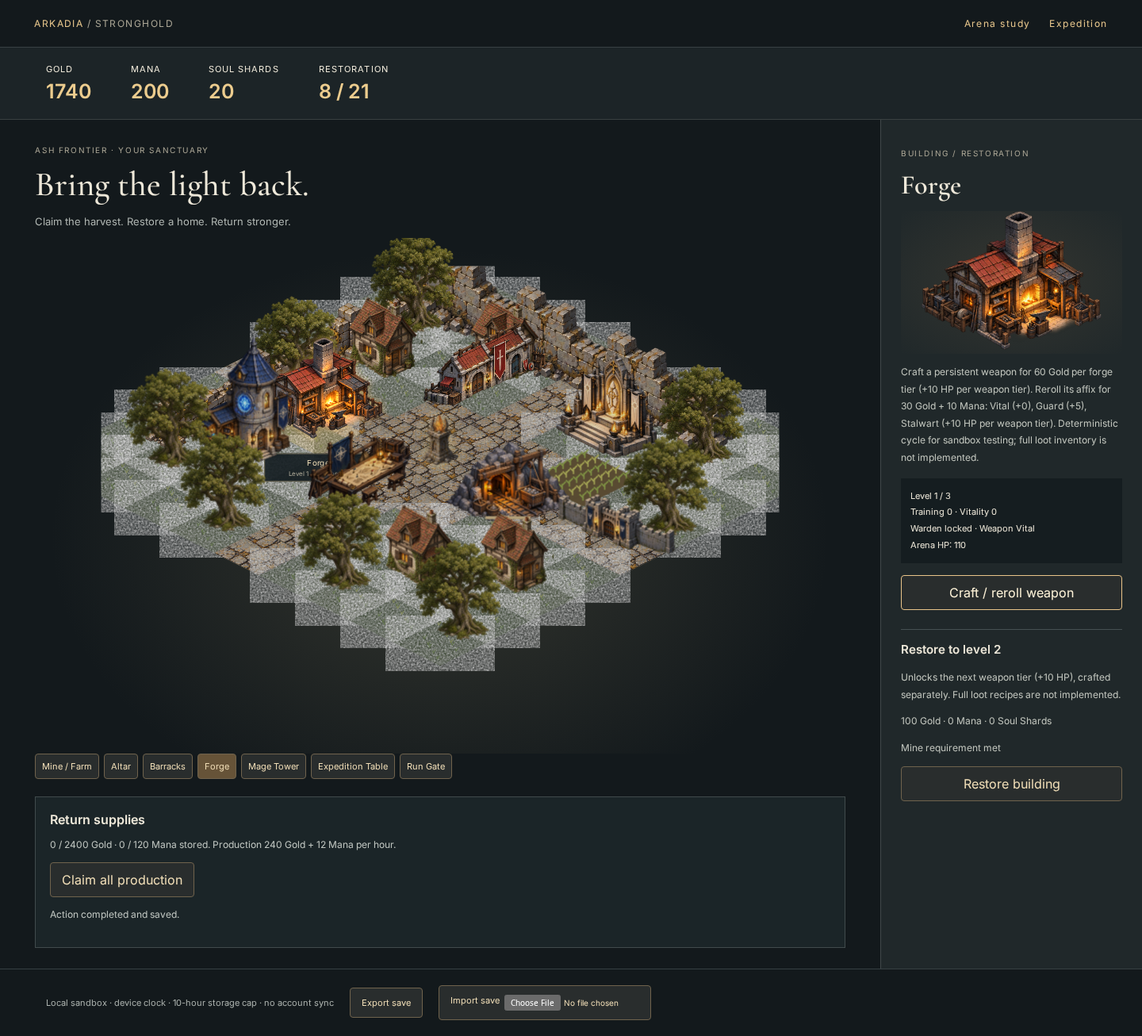
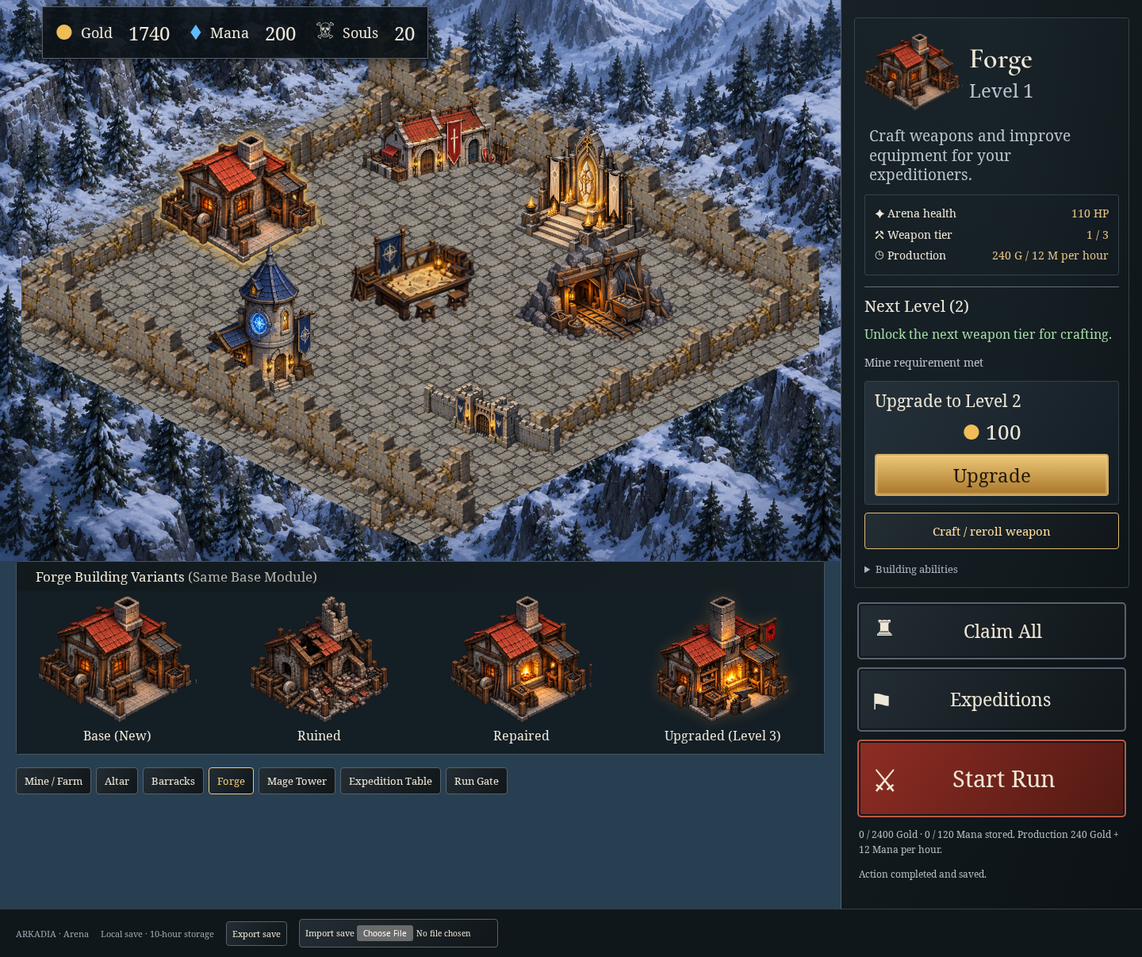
Restyle Stronghold as a snowy fortress game screen

diff --git a/src/stronghold/style.css b/src/stronghold/style.css
@@ -1,21 +1,5 @@
-@import url('https://fonts.googleapis.com/css2?family=Cormorant+Garamond:wght@500;600&family=Inter:wght@400;500;600&display=swap');
-:root{color-scheme:dark;font-family:Inter,system-ui,sans-serif;color:#eee8d9;background:#13191c}*{box-sizing:border-box}body{margin:0}button,a,input{font:inherit}a{color:#e9c88d;text-decoration:none}button,.import{border:1px solid #70634d;background:#292d2d;color:#f2dfb8;padding:11px 14px;cursor:pointer;border-radius:4px}button:hover,a:hover{color:#fff4d9;border-color:#eac58a}button:disabled{opacity:.45;cursor:not-allowed}header{padding:22px 3%;display:flex;justify-content:space-between;border-bottom:1px solid #394044;letter-spacing:.12em;font-size:12px}header span,small{color:#aca796}nav{display:flex;gap:24px}.resources{display:flex;gap:50px;padding:20px 4%;background:#1c2427;border-bottom:1px solid #3a4141;font-size:11px;letter-spacing:.1em}.resources b{display:block;font-size:25px;color:#eccc8e;letter-spacing:0;margin-top:6px}.layout{display:grid;grid-template-columns:minmax(0,1fr) 330px;max-width:1600px;margin:auto}main{padding:26px 4%}.intro h1{font:500 43px 'Cormorant Garamond',Georgia,serif;margin:9px 0}.intro p{color:#b0b6b2;font-size:13px}.intro small,aside>small{font-size:10px;letter-spacing:.16em}.scene{height:460px;position:relative;isolation:isolate;overflow:hidden;background:radial-gradient(ellipse at 50% 60%,#55503b55,transparent 68%)}.courtyard{position:absolute;width:62%;height:65%;top:17%;left:20%;background:url('/assets/limestone.png') center/110px 55px;transform:rotate(-30deg) skew(30deg) scaleY(.65);border:16px ridge #626360;box-shadow:20px 30px 0 #161d20,0 0 90px #a1763b22;opacity:.65}.center-relic{position:absolute;width:90px;height:130px;object-fit:contain;left:45%;top:37%;filter:drop-shadow(0 0 15px #d5ae6170)}.building{position:absolute;transform:translate(-50%,-75%);width:145px;height:125px;border:0;background:transparent;padding:0;z-index:2}.building img{width:120px;height:110px;object-fit:contain;position:relative;filter:brightness(.7) saturate(.6);pointer-events:none}.building .base{position:absolute;background:#5b5b4b;border:2px solid #8d8064;width:110px;height:52px;transform:rotate(-27deg) skew(32deg);left:15px;bottom:5px;box-shadow:6px 8px 0 #252c2b}.building.selected .base{border-color:#ffd995;box-shadow:0 0 20px #e1ab5366}.building-label{position:absolute;top:110px;left:0;width:100%;background:#182125ee;border:1px solid #555b53;padding:6px;font-size:11px;white-space:nowrap}.building-label small{display:block;font-size:9px;margin-top:3px}.building.tier-2 img,.portrait.tier-2 img{filter:brightness(.95)}.building.tier-3 img,.portrait.tier-3 img{filter:brightness(1.1) drop-shadow(0 0 6px #e9c47266)}.repair{position:absolute;top:24px;left:32px;width:75px;height:12px;background:#aa9778;transform:rotate(-12deg);display:none}.tier-2 .repair,.tier-3 .repair{display:block}.tier-3 .repair{border-top:4px solid #edc87c}.furnace{position:absolute;left:58px;top:70px;width:23px;height:25px;background:#e69c4c;box-shadow:0 0 20px #ff8a35;animation:ember 4s ease-in-out infinite}.mage img{filter:drop-shadow(0 0 10px #8bbbe7)}.quick{display:flex;gap:6px;flex-wrap:wrap}.quick button{font-size:11px;padding:8px}.quick button[aria-pressed=true]{background:#665338}.return{margin-top:22px;padding:18px;border:1px solid #414b4c;background:#1b2528}.return p{font-size:12px;color:#c1c7c2;line-height:1.7}aside{background:#20282a;border-left:1px solid #41484a;padding:30px 25px}h2{font:600 34px 'Cormorant Garamond',Georgia,serif;margin:12px 0}.portrait{background:radial-gradient(ellipse,#76614340,transparent);height:130px;text-align:center}.portrait img{height:130px;width:170px;object-fit:contain}aside p{font-size:12px;line-height:1.8;color:#c3c7bf}aside button{width:100%}.facts{font-size:11px;line-height:1.9;background:#151d20;padding:12px;margin:15px 0}h3{font-size:15px}hr{border:0;border-top:1px solid #465052;margin-top:24px}footer{padding:20px 4%;font-size:11px;color:#aeb4b0;border-top:1px solid #364043;display:flex;gap:20px;align-items:center}footer button,.import{font-size:11px}input[type=file]{max-width:170px;font-size:10px}@keyframes ember{50%{opacity:.7}}@media(prefers-reduced-motion:reduce){*{animation:none!important}}@media(max-width:900px){.layout{grid-template-columns:1fr}aside{border-top:1px solid #41484a}.resources{gap:20px;flex-wrap:wrap}.scene{height:400px}.building{scale:.83}.intro h1{font-size:34px}footer{flex-wrap:wrap}nav{gap:10px}}
-/* Scene geometry uses world pixels; only this parent is uniformly fitted. */
-.scene{height:auto;aspect-ratio:960/650;min-height:280px;max-height:650px;overflow:hidden}.scene-world{position:absolute;width:960px;height:650px;left:50%;top:50%;transform-origin:center}.ground{position:absolute;inset:0;width:960px;height:650px;pointer-events:none}.building{width:150px;height:150px;transform:translate(-50%,-100%);scale:1!important;overflow:visible;isolation:isolate}.building img{position:absolute;width:var(--sprite-width);height:auto;max-height:none;left:50%;top:100%;transform:translate(-50%,calc(-1 * var(--pivot)));object-fit:initial;z-index:1}.building .base{width:128px;height:64px;left:11px;bottom:-32px;transform:none;clip-path:polygon(50% 0,100% 50%,50% 100%,0 50%);border:0;background:#aaa07833;box-shadow:none}.building.selected .base{background:#f7ca7188;box-shadow:none}.building-label{top:calc(100% + 29px);left:-5px;width:160px;font-size:12px;padding:5px;z-index:3}.building-label small{font-size:10px}.building .repair{z-index:2;top:auto;bottom:30px;left:45px;width:60px;height:6px}.building .furnace{z-index:2;top:auto;bottom:15px;left:66px;width:18px;height:23px}.mage img{filter:brightness(.8) drop-shadow(0 0 10px #7aafe7)}.building:focus-visible{outline:2px solid #f7ca71;outline-offset:6px}.building:hover{background:transparent}.portrait img{max-width:100%}@media(max-width:900px){.scene{height:auto;min-height:280px;aspect-ratio:960/650}}@media(max-width:480px){main{padding-inline:12px}.resources{gap:18px;padding-inline:16px}.resources b{font-size:21px}header{letter-spacing:.03em;padding-inline:12px}header span{display:none}.scene{min-height:290px}aside{padding:24px 18px}.quick button{min-height:40px}footer{gap:12px}}
-.layout,main,aside{min-width:0}footer .import{max-width:100%;display:flex;gap:6px;flex-wrap:wrap}footer input{min-width:0;max-width:100%}.building-label{pointer-events:none}
-.scene{width:100%;max-width:100%}
-/* Dedicated building kit: the sprite is the silhouette; UI remains separate. */
-.wall-piece{position:absolute;inset:0;width:960px;height:650px;pointer-events:none}.sanctuary-relic{position:absolute;width:55px;height:auto;transform:translate(-50%,-94%);pointer-events:none;filter:drop-shadow(0 0 12px #dbbd6766)}.building img{filter:brightness(.88) saturate(.85);transition:filter .2s}.building.selected img{filter:brightness(1.08) drop-shadow(0 0 5px #f1b95b88)}.building .base{background:transparent}.building.selected .base{background:#f7ca7140}.building-label{font-size:11px;width:152px;left:-1px;background:#151e22ed;border-color:#726a54}.building-label small{font-size:9px}.building .repair{display:none}.building.tier-2::after,.building.tier-3::after{content:'';position:absolute;bottom:0;left:43px;width:64px;height:4px;background:#b4a078;z-index:2}.building.tier-3::after{background:#efc776;box-shadow:0 0 12px #e8ab4d}.building .furnace{left:70px;bottom:45px;width:6px;height:7px;opacity:.45;box-shadow:0 0 20px 10px #ffab4266;background:transparent;pointer-events:none}.portrait{height:180px}.portrait img{height:175px;width:230px}.scene{background:radial-gradient(ellipse at 50% 58%,#77705455,transparent 68%)}
-.scene{aspect-ratio:1060/730}.building-label{display:none}.building.selected .building-label{display:block}.building.selected img{filter:brightness(1.08) drop-shadow(0 0 5px #f1b95b88)}
-
-/* Open village: props use world ground pivots, never a second camera transform. */
-.village-prop{position:absolute;width:150px;height:160px;transform:translate(-50%,-87.5%);pointer-events:none}
-.crop{position:absolute;inset:0;width:960px;height:650px;pointer-events:none}
-/* Correct shallow source-art ground axes around each sprite's contact pivot.
-   Shear Y keeps vertical walls vertical, unlike rotating the entire building. */
-.building.barracks img{transform:translate(-50%,calc(-1 * var(--pivot))) skewY(-14deg);transform-origin:50% 95%}
-.building.expedition img{transform:translate(-50%,calc(-1 * var(--pivot))) skewY(-11deg);transform-origin:50% 95%}
-.building.altar img{transform:translate(-50%,calc(-1 * var(--pivot))) skewY(7deg);transform-origin:50% 95%}
-
-/* Wider irregular clearing with a single camera for all terrain and props. */
-.scene{aspect-ratio:1280/900;max-height:800px}.scene-world,.ground,.wall-piece,.crop{width:1280px;height:900px}.meadow-clump{position:absolute;height:auto;transform:translate(-50%,-90%);pointer-events:none}
+@import url('https://fonts.googleapis.com/css2?family=Cormorant+Garamond:wght@500;600&display=swap');
+:root{color-scheme:dark;font-family:Georgia,serif;color:#eee7d7;background:#10171b;font-synthesis:none}*{box-sizing:border-box}body{margin:0}button,a,input{font:inherit}a{color:inherit;text-decoration:none}button,.import{cursor:pointer;border:1px solid #596069;border-radius:4px;background:linear-gradient(120deg,#232d34,#101619);color:#efe6d6;padding:12px 16px}button:hover,a:hover{border-color:#dfba70;color:#ffe0a0}button:disabled{opacity:.5;cursor:not-allowed}button:focus-visible,a:focus-visible,summary:focus-visible{outline:2px solid #ffcf73;outline-offset:3px}.layout{display:grid;grid-template-columns:minmax(0,1fr) 380px;max-width:1920px;margin:auto}main{position:relative;min-width:0;background:radial-gradient(ellipse at 50% 40%,#718082,#344854 65%,#182b38);overflow:hidden}.resources{position:absolute;z-index:1000;left:5%;top:8px;display:flex;gap:25px;background:#0c1217ed;border:1px solid #58616a;padding:10px 16px;box-shadow:0 4px 14px #0008;font-size:18px}.resources div{display:flex;align-items:center;gap:10px;white-space:nowrap}.resources b{font-weight:400;font-size:24px;margin-left:10px}.resource-icon{font-size:26px;color:#d5d0c5}.gold{color:#efbd57}.mana{color:#60baff}.scene{position:relative;width:100%;height:auto;aspect-ratio:1.5;min-height:500px;overflow:hidden;isolation:isolate;background:radial-gradient(ellipse at 50% 60%,transparent 45%,#a8c3d640 95%)}.scene-world{position:absolute;width:1280px;height:900px;left:50%;top:50%;transform-origin:center}.ground,.wall-piece,.crop{position:absolute;inset:0;width:1280px;height:900px;pointer-events:none}.ground{filter:saturate(.55) brightness(1.25)}.building{position:absolute;width:150px;height:150px;transform:translate(-50%,-100%);background:transparent;border:0;padding:0;overflow:visible;isolation:isolate}.building img{position:absolute;width:var(--sprite-width);height:auto;left:50%;top:100%;transform:translate(-50%,calc(-1 * var(--pivot)));pointer-events:none;filter:brightness(.95);transition:filter .2s}.building:hover{background:transparent}.building:hover img,.building.selected img{filter:brightness(1.12) drop-shadow(0 0 2px #ffc65d) drop-shadow(0 0 5px #ffc65d)}.building .base{position:absolute;width:190px;height:95px;bottom:-25px;left:-20px;clip-path:polygon(50% 0,100% 50%,50% 100%,0 50%)}.building.selected .base{background:#efb94e33}.building-label{display:none;position:absolute;top:100%;left:-20px;width:190px;background:#111a20e8;border:1px solid #bf9d5a;padding:7px;pointer-events:none;font-size:15px}.building:focus-visible .building-label,.building:hover .building-label{display:block}.building-label small{display:block;font-size:12px;color:#bbb}.repair,.furnace{display:none}.sidebar{padding:22px 16px;background:linear-gradient(110deg,#172126,#0c1215);border-left:1px solid #53616b;min-width:0}aside{border:1px solid #35424b;border-radius:4px;padding:16px;background:radial-gradient(ellipse at top,#22303a55,transparent)}.detail-heading{display:flex;align-items:center;gap:12px}.portrait{width:124px;height:112px;flex-shrink:0}.portrait img{width:100%;height:100%;object-fit:contain}h2{font:600 36px 'Cormorant Garamond',Georgia,serif;margin:0 0 2px}.detail-heading p{font-size:24px;margin:0;color:#bbc2cc}.description{font-size:20px;line-height:1.3;color:#bbc3cb;margin:14px 10px}.facts{padding:14px 12px;border:1px solid #35424b;border-radius:3px;font-size:15px;line-height:1.9}.facts div{display:flex;justify-content:space-between;gap:8px}.facts b{font-weight:400;color:#e4c383}.facts div:last-child{flex-wrap:wrap}hr{border:0;border-top:1px solid #62707a;margin:20px 0 12px}h3{font-size:20px;font-weight:400;margin:10px 0}.effect{font-size:16px;line-height:1.5;color:#a7dca7}.requirement{font-size:14px;color:#bcc5ca}.upgrade-card{border:1px solid #35424b;background:linear-gradient(120deg,#25313a,#141d24);border-radius:3px;padding:10px 12px;margin:18px 0 12px}.upgrade-card h3{margin:0;font-size:21px}.price{text-align:center;font-size:26px;margin:7px 0}.upgrade-card button{width:100%;background:linear-gradient(#ecc776,#a9772c);border:2px solid #cfaa65;color:#211808;font-size:24px;padding:8px;box-shadow:inset 0 0 0 2px #f3d58b55}#action{width:100%;font-size:15px}details{font-size:13px;color:#aab5bd;margin-top:15px;line-height:1.6}summary{cursor:pointer}.destinations{display:grid;gap:12px;margin:26px 4px 0}.destinations button,.destinations a{display:flex;align-items:center;border:2px solid #59636e;box-shadow:inset 0 0 0 2px #11181d;border-radius:5px;background:linear-gradient(120deg,#232d34,#101619);padding:14px 20px;font-size:28px}.destinations span{flex:1;text-align:center;font-size:23px}#start-run{background:linear-gradient(125deg,#8f2d24,#501913);border-color:#bd5743;font-size:36px}#start-run span{font-size:29px}.return{font-size:12px;color:#b2bdc3;line-height:1.6;margin:18px 6px}.variants{margin:0 20px 16px;border:1px solid #485661;background:linear-gradient(120deg,#141c22,#26313a);border-radius:4px}.variants h3{margin:0;padding:7px 24px;background:#10181cb0;font-size:17px}.variants h3 span{color:#b6b4ab}.variant-grid{display:grid;grid-template-columns:repeat(4,1fr)}figure{margin:0;text-align:center;padding:6px 2px 12px;min-width:0}.variant img{width:100%;height:160px;object-fit:contain}.variant-0 img{filter:saturate(.5)}.variant-1 img{filter:grayscale(.85) brightness(.6)}.variant-3 img{filter:brightness(1.17) drop-shadow(0 0 10px #df9c3355)}figcaption{font-size:16px}.quick{display:flex;gap:6px;padding:0 20px 15px;flex-wrap:wrap}.quick button{font-size:13px;padding:7px 10px}.quick button[aria-pressed=true]{border-color:#f1c778;color:#f1c778}footer{max-width:1920px;margin:auto;display:flex;gap:15px;align-items:center;flex-wrap:wrap;padding:12px 20px;border-top:1px solid #34424b;font-size:11px;color:#9ba9b3}footer button,.import{font-size:11px;padding:7px}input[type=file]{max-width:170px;font-size:10px}@media(min-width:1500px){.scene{min-height:770px}}@media(max-width:1000px){.layout{grid-template-columns:minmax(0,1fr) 310px}.sidebar{padding:12px 10px}.portrait{width:90px;height:90px}h2{font-size:30px}.description{font-size:17px}.resources{gap:12px;font-size:14px;padding:8px}.resources b{font-size:20px;margin-left:0}.variant img{height:110px}figcaption{font-size:13px}.scene{min-height:450px}}@media(max-width:700px){.layout{grid-template-columns:1fr}.scene{min-height:0;aspect-ratio:1.15}.resources{left:8px;right:8px;top:8px;justify-content:space-between;gap:6px}.resources div{gap:5px}.resources b{font-size:19px}.resource-icon{font-size:20px}.variants{margin:0 8px 12px}.variants h3{font-size:14px;padding:6px 10px}.variant img{height:90px}figcaption{font-size:11px}.sidebar{border-left:0;border-top:1px solid #53616b;padding:16px}.detail-heading{gap:20px}.portrait{width:110px;height:100px}.description{font-size:20px}.quick{padding:0 8px 12px;gap:5px}.quick button{min-height:40px;font-size:12px}.destinations{margin-top:16px}.import{display:flex;flex-wrap:wrap;max-width:100%}footer input{max-width:100%;min-width:0}}@media(prefers-reduced-motion:reduce){*{transition:none!important}}
+/* Landscape art sits below independently selected and depth-sorted buildings. */
+main{background:#273f51}.scene{background:url('/fortress-ui/snowy-landscape.webp') center/cover no-repeat}.detail-heading{gap:8px}.description{margin:12px 6px;font-size:19px}.facts{padding:10px 12px;font-size:14px}.upgrade-card{margin:12px 0 10px}aside{padding:12px}hr{margin:14px 0 10px}.destinations{margin-top:18px;gap:10px}.destinations button,.destinations a{padding:10px 18px}.return{margin:12px 6px}.effect{margin:10px 0}.variant-grid{background:#141e25}.scene .ground{filter:saturate(.45) brightness(1.05)}
+.variant img{filter:none}.variant-3 img{filter:drop-shadow(0 0 8px #df9c3333)}

diff --git a/src/stronghold/main.ts b/src/stronghold/main.ts
@@ -1,5 +1,5 @@
 import './style.css';
-import {ground,placement,slots,WORLD,enclosure,village} from './scene';
+import {ground,placement,slots,WORLD,enclosure} from './scene';
 import {KEY,BALANCE,buildings,load,rates,cost,upgrade,action,claim,type Building} from './economy';
 import {transact,restore} from './store';
 const info:Record<Building,{name:string;description:string;action:string;effect:string}>={
@@ -12,23 +12,26 @@ const info:Record<Building,{name:string;description:string;action:string;effect:
  gate:{name:'Run Gate',description:'Enter the existing arena. Defeat five enemies, then return to receive 100 Gold, 20 Mana and 3 Soul Shards once per run. Stronghold HP bonuses apply on entry.',action:'Start arena run ↗',effect:'Repairs the gate. Run difficulty remains unchanged.'}
 };
 const root=document.querySelector('#stronghold')!;
-root.innerHTML=`<header><a href="/stronghold.html">ARKADIA <span>/ STRONGHOLD</span></a><nav><a href="/index.html">Arena study</a><a href="/expedition.html">Expedition</a></nav></header><section class="resources" aria-label="Resources"></section><div class="layout"><main><div class="intro"><small>ASH FRONTIER · YOUR SANCTUARY</small><h1>Bring the light back.</h1><p>Claim the harvest. Restore a home. Return stronger.</p></div><div class="scene" aria-label="Stronghold village with gardens and cottages"><div class="scene-world">${ground()}${enclosure()}${village()}<div id="slots"></div></div></div><div class="quick" aria-label="Building selection"></div><div class="return"><b>Return supplies</b><p id="offline"></p><button id="claim">Claim all production</button><p id="status" role="status">Saved locally in this browser. Production continues while away.</p></div></main><aside aria-label="Building details"></aside></div><footer>Local sandbox · device clock · 10-hour storage cap · no account sync <button id="export">Export save</button><label class="import">Import save <input type="file" id="import" accept="application/json"></label></footer>`;
-let selected:Building='mine',busy=false;
+root.innerHTML=`<div class="layout"><main><section class="resources" aria-label="Resources"></section><div class="scene" aria-label="Stronghold fortress courtyard"><div class="scene-world">${ground()}${enclosure()}<div id="slots"></div></div></div><div class="variants"><h3>Forge Building Variants <span>(Same Base Module)</span></h3><div class="variant-grid">${['Base (New)','Ruined','Repaired','Upgraded (Level 3)'].map((name,i)=>`<figure class="variant variant-${i}"><img src="/fortress-ui/forge-${[1,0,2,3][i]}.webp" alt="Forge ${name}"><figcaption>${name}</figcaption></figure>`).join('')}</div></div><div class="quick" aria-label="Building selection"></div></main><div class="sidebar"><aside aria-label="Building details"></aside><div class="destinations"><button id="claim">♜ <span>Claim All</span></button><a href="/expedition.html">⚑ <span>Expeditions</span></a><button id="start-run">⚔ <span>Start Run</span></button></div><div class="return"><p id="offline"></p><p id="status" role="status">Saved locally in this browser.</p></div></div></div><footer><a href="/index.html">ARKADIA · Arena</a><span>Local save · 10-hour storage</span><button id="export">Export save</button><label class="import">Import save <input type="file" id="import" accept="application/json"></label></footer>`;
+let selected:Building='forge',busy=false;
 const el=(s:string)=>root.querySelector(s) as HTMLElement;
 const fit=()=>{const scene=el('.scene');const scale=Math.min(scene.clientWidth/WORLD.width,scene.clientHeight/WORLD.height);el('.scene-world').style.transform=`translate(-50%,-50%) scale(${scale})`;};
 new ResizeObserver(fit).observe(el('.scene'));fit();
 function read(){return load(localStorage.getItem(KEY));}
-function render(){try{const s=read(),r=rates(s);el('.resources').innerHTML=`<div>GOLD <b>${Math.floor(s.gold)}</b></div><div>MANA <b>${Math.floor(s.mana)}</b></div><div>SOUL SHARDS <b>${s.souls}</b></div><div>RESTORATION <b>${Object.values(s.levels).reduce((a,b)=>a+b,0)} / 21</b></div>`;
- el('#slots').innerHTML=buildings.map(b=>`<button class="building ${b} tier-${s.levels[b]} ${selected===b?'selected':''}" data-building="${b}" style="${placement(b)}" aria-label="Select ${info[b].name}" aria-pressed="${selected===b}"><span class="base"></span><img src="/assets/${slots[b].asset}.png" alt=""><i class="repair"></i>${b==='forge'?'<i class="furnace"></i>':''}<span class="building-label">${info[b].name}${b==='mine'&&s.storedGold>=1?' ▣':''}<small>Level ${s.levels[b]} · ${['Weathered','Repaired','Restored'][s.levels[b]-1]}</small></span></button>`).join('');
+function render(){try{const s=read(),r=rates(s);el('.resources').innerHTML=`<div><span class="resource-icon gold">●</span> Gold <b>${Math.floor(s.gold)}</b></div><div><span class="resource-icon mana">♦</span> Mana <b>${Math.floor(s.mana)}</b></div><div><span class="resource-icon">☠</span> Souls <b>${s.souls}</b></div>`;
+ el('#slots').innerHTML=buildings.map(b=>`<button class="building ${b} tier-${s.levels[b]} ${selected===b?'selected':''}" data-building="${b}" style="${placement(b)}" aria-label="Select ${info[b].name}" aria-pressed="${selected===b}"><span class="base"></span><img src="${b==='forge'?`/fortress-ui/forge-${s.levels[b]}.webp`:`/assets/${slots[b].asset}.png`}" alt=""><i class="repair"></i>${b==='forge'?'<i class="furnace"></i>':''}<span class="building-label">${info[b].name}${b==='mine'&&s.storedGold>=1?' ▣':''}<small>Level ${s.levels[b]} · ${['Ruined','Repaired','Restored'][s.levels[b]-1]}</small></span></button>`).join('');
  el('.quick').innerHTML=buildings.map(b=>`<button data-building="${b}" aria-pressed="${selected===b}">${info[b].name}</button>`).join('');
  const b=selected,d=info[b],c=cost(s,b),max=s.levels[b]>=BALANCE.maxLevel,req=b!=='mine'&&s.levels.mine<s.levels[b]+1;
- el('aside').innerHTML=`<small>BUILDING / ${s.levels[b]===3?'RESTORED':'RESTORATION'}</small><h2>${d.name}</h2><div class="portrait tier-${s.levels[b]}"><img src="/assets/${slots[b].asset}.png" alt="${d.name}"></div><p>${d.description}</p><div class="facts">Level ${s.levels[b]} / 3<br>Training ${s.training} · Vitality ${s.skill}<br>Warden ${s.hero?'unlocked':'locked'} · Weapon ${s.weapon?['Vital','Guard','Stalwart'][s.affix]:'uncrafted'}<br>Arena HP: ${100+(s.hero?20:0)+s.training*10+s.skill*5+(s.weapon?s.weapon*10+s.affix*5:0)}</div><button id="action" ${busy?'disabled':''}>${d.action}</button><hr><h3>${max?'Fully restored':`Restore to level ${s.levels[b]+1}`}</h3><p>${d.effect}</p><p>${max?'Maximum level':`${c.gold} Gold · ${c.mana} Mana · ${c.souls} Soul Shards`}</p><p>${req?`Requires Mine level ${s.levels[b]+1}`:'Mine requirement met'}</p><button id="upgrade" ${max||req||s.gold<c.gold||s.mana<c.mana||s.souls<c.souls||busy?'disabled':''}>${max?'Restored':'Restore building'}</button>`;
+ const hp=100+(s.hero?20:0)+s.training*10+s.skill*5+(s.weapon?s.weapon*10+s.affix*5:0);
+ const descriptions:Record<Building,string>={mine:'Gather gold and harvest supplies for your sanctuary.',altar:'Restore the sanctuary and unlock the Warden blessing.',barracks:'Train your expeditioners for the battles ahead.',forge:'Craft weapons and improve equipment for your expeditioners.',mage:'Gather Mana and study the art of Vitality.',expedition:'Explore the world and send your expeditioners in search of supplies.',gate:'Leave the safety of the fortress. Return with the spoils of battle.'};
+ el('aside').innerHTML=`<div class="detail-heading"><div class="portrait tier-${s.levels[b]}"><img src="${b==='forge'?`/fortress-ui/forge-${s.levels[b]}.webp`:`/assets/${slots[b].asset}.png`}" alt="${d.name}"></div><div><h2>${d.name}</h2><p>Level ${s.levels[b]}</p></div></div><p class="description">${descriptions[b]}</p><div class="facts"><div><span>✦ Arena health</span><b>${hp} HP</b></div><div><span>⚒ Weapon tier</span><b>${s.weapon} / 3</b></div><div><span>◷ Production</span><b>${r.gold} G / ${r.mana} M per hour</b></div></div><hr><h3>${max?'Fully restored':`Next Level (${s.levels[b]+1})`}</h3><p class="effect">${{mine:"Gold output increases with each level.",forge:"Unlock the next weapon tier for crafting.",altar:"Restore your sanctuary and its blessing.",barracks:"Unlock the next training rank.",mage:"Increase Mana production and unlock a skill rank.",expedition:"Restore your expedition table.",gate:"Restore the fortress entrance."}[b]}</p><p class="requirement">${req?`Requires Mine level ${s.levels[b]+1}`:max?'Maximum level reached':'Mine requirement met'}</p><div class="upgrade-card"><h3>${max?'Sanctuary restored':`Upgrade to Level ${s.levels[b]+1}`}</h3><p class="price">${max?'Level 3 / 3':`<span class="gold">●</span> ${c.gold}${c.mana?` · ${c.mana} Mana`:''}${c.souls?` · ${c.souls} Souls`:''}`}</p><button id="upgrade" ${max||req||s.gold<c.gold||s.mana<c.mana||s.souls<c.souls||busy?'disabled':''}>${max?'Restored':'Upgrade'}</button></div><button id="action" ${busy?'disabled':''}>${d.action}</button><details><summary>Building abilities</summary><p>${d.description}</p><p>Training ${s.training} · Vitality ${s.skill} · Warden ${s.hero?'unlocked':'locked'}</p></details>`;
  el('#offline').textContent=`${Math.floor(s.storedGold)} / ${r.gold*10} Gold · ${Math.floor(s.storedMana)} / ${r.mana*10} Mana stored. Production ${r.gold} Gold + ${r.mana} Mana per hour. ${s.storedGold>=r.gold*10?'Gold storage full.':''}`;
  root.querySelectorAll<HTMLElement>('[data-building]').forEach(e=>e.onclick=()=>{selected=e.dataset.building as Building;render();});
  el('#upgrade').onclick=()=>run(()=>transact(s=>upgrade(s,selected)),'Building restored.');
  el('#action').onclick=()=>{if(b==='expedition'){location.href='/expedition.html';return;}if(b==='gate'){run(async()=>{await transact(s=>{s.runId=crypto.randomUUID();});location.href='/index.html?stronghold=1';},'Run prepared.');return;}run(()=>transact(s=>action(s,b)),'Action completed and saved.');};
  }catch(e){el('#status').textContent=String(e);}}
 async function run(fn:()=>Promise<unknown>,message:string){if(busy)return;busy=true;try{await fn();el('#status').textContent=message;}catch(e){el('#status').textContent=String(e);}finally{busy=false;render();}}
+el('#start-run').onclick=()=>run(async()=>{await transact(s=>{s.runId=crypto.randomUUID();});location.href='/index.html?stronghold=1';},'Run prepared.');
 el('#claim').onclick=()=>run(()=>transact(s=>{claim(s);}),'Production claimed and saved.');
 el('#export').onclick=()=>{try{const s=read(),url=URL.createObjectURL(new Blob([JSON.stringify(s)],{type:'application/json'}));const a=document.createElement('a');a.href=url;a.download='arkadia-stronghold.json';a.click();URL.revokeObjectURL(url);}catch(e){el('#status').textContent=String(e);}};
 el('#import').onchange=async e=>{const file=(e.target as HTMLInputElement).files?.[0];if(file)run(async()=>{const raw=await file.text();await restore(raw);},'Backup imported. Import replaces this browser progress.');};

diff --git a/src/stronghold/scene.ts b/src/stronghold/scene.ts
@@ -3,25 +3,25 @@ import {wallSources} from '../wall-sources';
 // One world unit system: tile top diamonds are 128 × 64, never CSS-skewed.
 export const TILE = {width:128,height:64};
 export const WORLD = {width:1280,height:900};
-export const project=(u:number,v:number)=>({x:640+(u-v)*64,y:220+(u+v)*32});
+export const project=(u:number,v:number)=>({x:640+(u-v)*64,y:300+(u+v)*32});
 // Ground contact pivots measured against the extracted PNGs, independent of image box height.
 export const slots:Record<Building,{u:number;v:number;width:number;pivot:number;asset:string}>= {
- mine:{u:4.5,v:2.8,width:175,pivot:.95,asset:'stronghold/mine'},
- altar:{u:3.6,v:-.1,width:145,pivot:.95,asset:'stronghold/altar'},
- barracks:{u:.7,v:-.4,width:175,pivot:.95,asset:'stronghold/barracks'},
- forge:{u:-.5,v:2.7,width:185,pivot:.95,asset:'stronghold/forge'},
- mage:{u:-.6,v:4.5,width:130,pivot:.95,asset:'stronghold/mage'},
- expedition:{u:2,v:4.2,width:145,pivot:.95,asset:'stronghold/expedition'},
- gate:{u:5.9,v:2,width:165,pivot:.95,asset:'stronghold/gate'}
+ mine:{u:6,v:1.6,width:260,pivot:.95,asset:'stronghold/mine'},
+ altar:{u:3.6,v:-.4,width:205,pivot:.95,asset:'stronghold/altar'},
+ barracks:{u:0,v:-.4,width:240,pivot:.95,asset:'stronghold/barracks'},
+ forge:{u:-.5,v:4,width:260,pivot:.95,asset:'stronghold/forge'},
+ mage:{u:3,v:7,width:175,pivot:.95,asset:'stronghold/mage'},
+ expedition:{u:3.2,v:3.4,width:200,pivot:.95,asset:'stronghold/expedition'},
+ gate:{u:7.5,v:5.7,width:220,pivot:.95,asset:'stronghold/gate'}
 };
 const diamond=(u:number,v:number,r=.5)=>{const p=[project(u-r,v-r),project(u+r,v-r),project(u+r,v+r),project(u-r,v+r)];return p.map(q=>`${q.x},${q.y}`).join(' ');};
 // Continuous meadow with feathered dirt and paving transitions; no tile borders.
 export function ground(){
- const boundary=[[-3,-1.8],[-2.4,-3],[1,-3.3],[4,-2.8],[6.5,-1.5],[7,1],[7.3,4],[6,6.8],[3.5,7.3],[0,7],[-2,5.6],[-3.2,2]].map(([u,v])=>{const p=project(u,v);return `${p.x},${p.y}`;}).join(' ');
+ const boundary=[[-3,-3],[9,-3],[9,9],[-3,9]].map(([u,v])=>{const p=project(u,v);return `${p.x},${p.y}`;}).join(' ');
  const route=(points:number[][])=>points.map(([u,v],i)=>{const p=project(u,v);return `${i?'L':'M'}${p.x} ${p.y}`;}).join(' ');
  const trails=[[[2,2],[.7,2.8],[0,2.7]],[[2,2],[3.7,3.4],[4.4,4.8]],[[4,2],[5.1,3],[5.6,3.9]],[[2,0],[1,-.7],[.2,-.8]],[[2,4],[1.8,5.2],[1,6.5]],[[4,2],[4,1.2],[4,.4]]];
  let paths=trails.map(p=>`<path class="dirt-trail" d="${route(p)}" fill="none" stroke="#9b8155" stroke-width="32" stroke-linecap="round" filter="url(#soft-soil)" opacity=".65"/><path d="${route(p)}" fill="none" stroke="#b29769" stroke-width="12" stroke-linecap="round" filter="url(#soft-soil)" opacity=".3"/>`).join('');
- let paving='';for(let u=-2;u<=6;u++)for(let v=-2;v<=6;v++)if(u===2||v===2||(u>=1&&u<=3&&v>=1&&v<=3)){
+ let paving='';for(let u=-3;u<=9;u++)for(let v=-3;v<=9;v++)if(true){
  const {x,y}=project(u,v),id=`tile-${u+2}-${v+2}`;
  paving+=`<clipPath id="${id}"><polygon points="${diamond(u,v)}"/></clipPath><image href="/assets/limestone.png" x="${x-65}" y="${y-33}" width="130" height="67" preserveAspectRatio="none" clip-path="url(#${id})"/>`;
  }
@@ -49,15 +49,15 @@ export function placement(b:Building){const s=slots[b],p=project(s.u,s.v);return
 // Reuse the calibrated two-direction wall kit; walls share the buildings' ground-Y depth.
 export function enclosure(){
  let html='';
- for(const side of ['backLeft','backRight'])for(let i=0;i<3;i++){
+ for(const side of ['backLeft','backRight','frontLeft','frontRight'])for(let i=0;i<6;i++){
  const left=side.endsWith('Left'),front=side.startsWith('front');
- const u=left?(front?5.9:-1.5):i*2-.5,v=left?i*2-.5:(front?5.9:-1.5);
+ const u=left?(front?8:-2):i*2-2,v=left?i*2-2:(front?8:-2);
  // Leave a real opening around the run gate.
- if(front&&left&&i===2)continue;
+ if(front&&left&&i===4)continue;
  const p=project(u,v),source=left?wallSources['wall-left']:wallSources['wall-a'];
  const [[x0,y0],[x1,y1]]=source.feet,scale=128/(x1-x0),slope=left?-.5:.5;
  const shear=(128*slope-scale*(y1-y0))/(x1-x0),mx=(x0+x1)/2,my=(y0+y1)/2;
  html+=`<svg class="wall-piece" style="z-index:${Math.round(p.y)}" viewBox="0 0 1280 900" aria-hidden="true"><image href="${source.file}" width="${source.size[0]}" height="${source.size[1]}" transform="matrix(${scale} ${shear} 0 ${scale} ${p.x-scale*mx} ${p.y-shear*mx-scale*my})"/></svg>`;
  }
- const p=project(2,2);return html+`<img class="sanctuary-relic" src="/assets/relic.png" alt="" style="left:${p.x}px;top:${p.y}px;z-index:${p.y}"/>`;
+ return html;
 }

diff --git a/docs/fortress-ui/knowledge.md b/docs/fortress-ui/knowledge.md
@@ -1,0 +1,47 @@
+## Reference and acceptance
+
+The first attachment showed the mobile Stronghold as a document page: navigation, a large resource row, introduction text, a small open village and building buttons. The second attachment requests a game screen with an enclosed snowy courtyard, compact resource HUD, Forge selected by default, a building detail/upgrade sidebar, forge variants below the scene, and Claim All / Expeditions / Start Run actions.
+
+## Implemented
+
+The introduction and top navigation no longer push the game scene down the page. Resources overlay the courtyard. A dark framed sidebar shows the selected building portrait, saved level, actual player health, weapon tier, production, restoration requirements and cost. Gold upgrade and red Start Run buttons follow the reference hierarchy. Seven independent building buttons share depth sorting with the enclosing wall segments; a real gate opening remains at the front. The mobile view stacks the scene, variants and readable detail panel without horizontal scrolling. English quick selectors remain available for accessible building navigation.
+
+Snow-covered pine forest and mountain art sits beneath separately rendered courtyard tiles, walls and interactive buildings. The target screenshot is not used as a flattened UI background. New, ruined, repaired and upgraded forge artwork is shown in the variant strip. Saved forge levels 1/2/3 select new/repaired/upgraded artwork in both scene and portrait; ruined art is a reference variant, not a new damage mechanic. Other buildings retain their existing sprites.
+
+Resource totals, prices and effects come from the existing economy. The reference's fictional worker counts, equipment production percentages and 60-second interval were not invented as game mechanics. Existing crafting, training, blessings, skills, claims, exports/imports, expedition navigation and arena reward integration remain functional.
+
+## Live game
+
+[Open Stronghold](https://arkadia-stronghold-whachat.fural.space/stronghold.html) · [Open through the main Arkadia host](https://arkadia-whachat.fural.space/stronghold.html).
+
+## Human images
+
+![Before: mobile document-style village](/api/organizations/ORd5dd6f99b4308d6187031557/task-attachments/TA27f70caa15e79b2c81044320)
+
+![Target: snowy fortress game screen](/api/organizations/ORd5dd6f99b4308d6187031557/task-attachments/TAc54ebe1b54f95905b3f73908)
+
+## Generated and source artwork
+
+Built-in imagegen produced the snowy landscape and four-state forge sprite sheet. Original PNGs and WebP runtime encodings are in public/fortress-ui. The sheet is extracted into separate transparent sprites without changing the painted artwork. Full generation prompts are recorded in docs/fortress-ui/prompts.md.
+
+![Snowy landscape](https://arkadia-stronghold-whachat.fural.space/fortress-ui/snowy-landscape.webp)
+
+![Existing forge used as an art reference](https://arkadia-stronghold-whachat.fural.space/assets/stronghold/forge.png)
+
+![Four forge states generated from the existing forge](https://arkadia-stronghold-whachat.fural.space/fortress-ui/forge-states.webp)
+
+## Runtime evidence
+
+![Desktop fortress UI](https://arkadia-stronghold-whachat.fural.space/fortress-ui/desktop.webp)
+
+![Mobile fortress UI](https://arkadia-stronghold-whachat.fural.space/fortress-ui/mobile.webp)
+
+## Verification and publishing
+
+TypeScript and Vite production build pass. Eight economy/save/offline tests pass. New browser checks pass at 1536, 844, 390 and 320 pixels on both public hosts: all seven selections, loaded matching portraits, mine and forge upgrades, crafting, reload persistence, claims, Start Run navigation, no overflow and no page errors. The broader existing browser regression also passes on the main public host, including concurrent-tab claim protection, expedition dispatch, arena entry with 110 HP and the controlled five-kill reward fixture.
+
+The publisher initially exceeded the platform's request/transfer timeout. A 2.44 MB incremental package in bounded chunks was published through the supported sandboxes serve command, preserving the existing full-site resource packages. Both public URLs were then checked against the new UI with real browser interactions. A gateway timeout during the main host's final boot did not indicate a failed release: boot logs confirmed the new server and the public browser regression passed. No resource-guard incidents were reported.
+
+## Visual scope
+
+The screen follows the reference composition and cold exterior / warm interior palette. Existing repeating masonry, floor tiles and most building silhouettes remain; this is not a pixel-identical recreation of the supplied illustration. There are no animated townsfolk or new worker-production mechanics.

diff --git a/docs/fortress-ui/prompts.md b/docs/fortress-ui/prompts.md
@@ -1,0 +1,11 @@
+## Generation method
+
+Built-in imagegen, with the task target screenshot as landscape reference and the existing public/assets/stronghold/forge.png as forge edit reference. Landscape uses an opaque background; forge sheet uses transparency. Original outputs are saved in public/fortress-ui/snowy-landscape.png and public/fortress-ui/forge-states.png. Runtime WebP encodings preserve transparency. scripts/prepare-forge-states.mjs extracts the four painted states.
+
+## Snowy landscape prompt
+
+Use case: stylized-concept. Asset type: game environment background, landscape 3:2. Create a richly painted isometric dark medieval fantasy snowy mountain pine forest surrounding a large EMPTY diamond-shaped clearing in the center. Camera looking down 30 degrees, orthographic, textured semi realistic game art. Snowy craggy rocks and dense fir trees only along the perimeter, cold blue grey palette, snow banks, distant mountains at top. Center 75% is empty muted grey earth and rough paving where code will overlay separate fortress walls and building sprites. No buildings, no walls, no people, no text, no UI, no frames. Edge-to-edge continuous scenery. Match the atmospheric snowy outside environment of the supplied reference but do not include any of its interface or buildings.
+
+## Forge sheet prompt
+
+Asset type: ONE transparent game sprite sheet. Edit the supplied forge into four distinct progression states, in ONE horizontal row of FOUR EQUAL SQUARE CELLS, each isolated with transparent padding, perfectly centered, matching camera scale ground pivot and same square stone foundation. First cell: Base New simple small unlit forge cottage with low chimney. Second cell: Ruined forge, collapsed roof, broken chimney, rubble, no fire. Third cell: Repaired forge, intact red roof chimney modest warm furnace. Fourth cell: Upgraded level 3 forge as supplied reference, taller chimney large bright furnace extra anvil work area and pennant. Orthographic isometric detailed dark medieval fantasy game sprites. Actual transparent background. No words, no text, no UI. Four cells evenly spaced across a wide 4:1 canvas. Preserve source forge design language and camera orientation.
